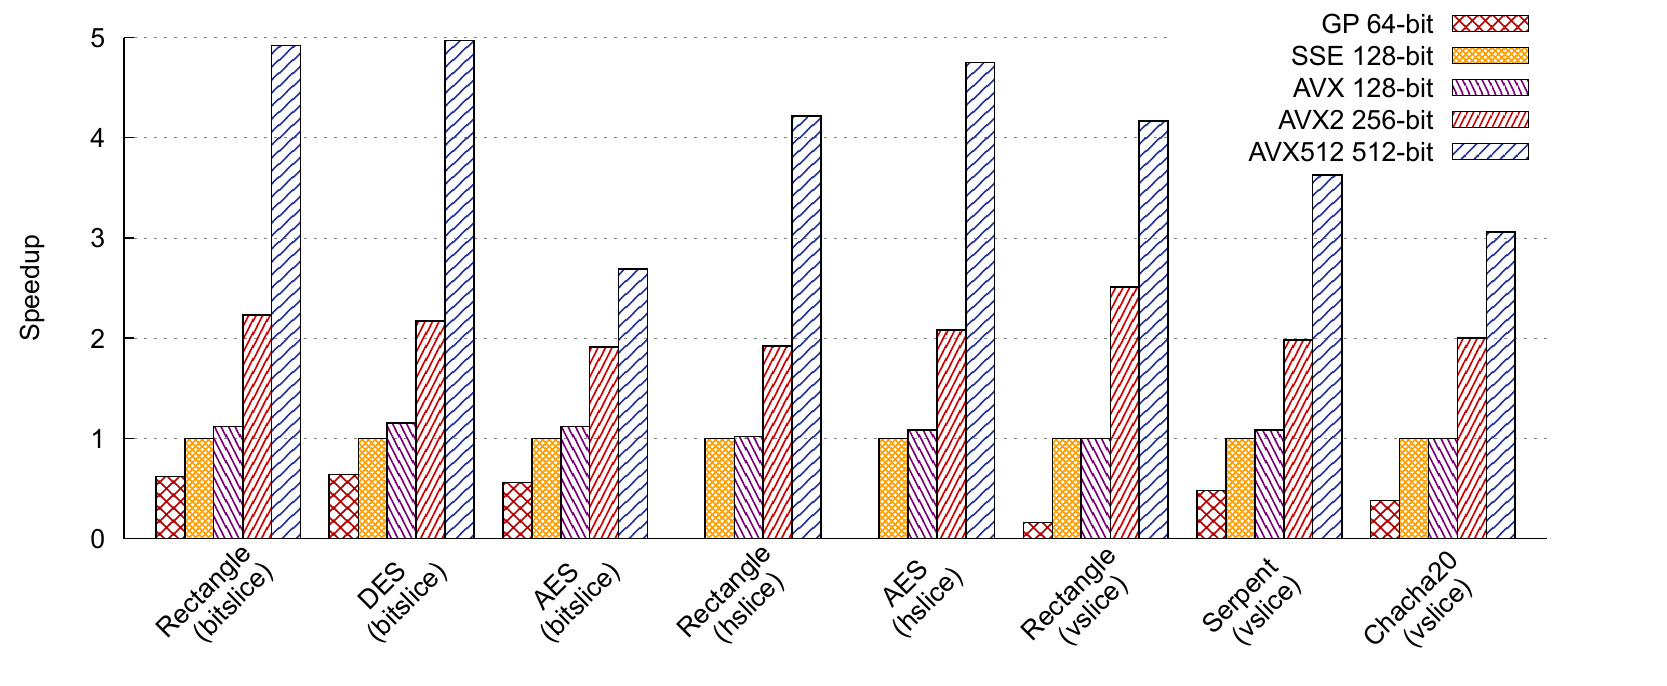
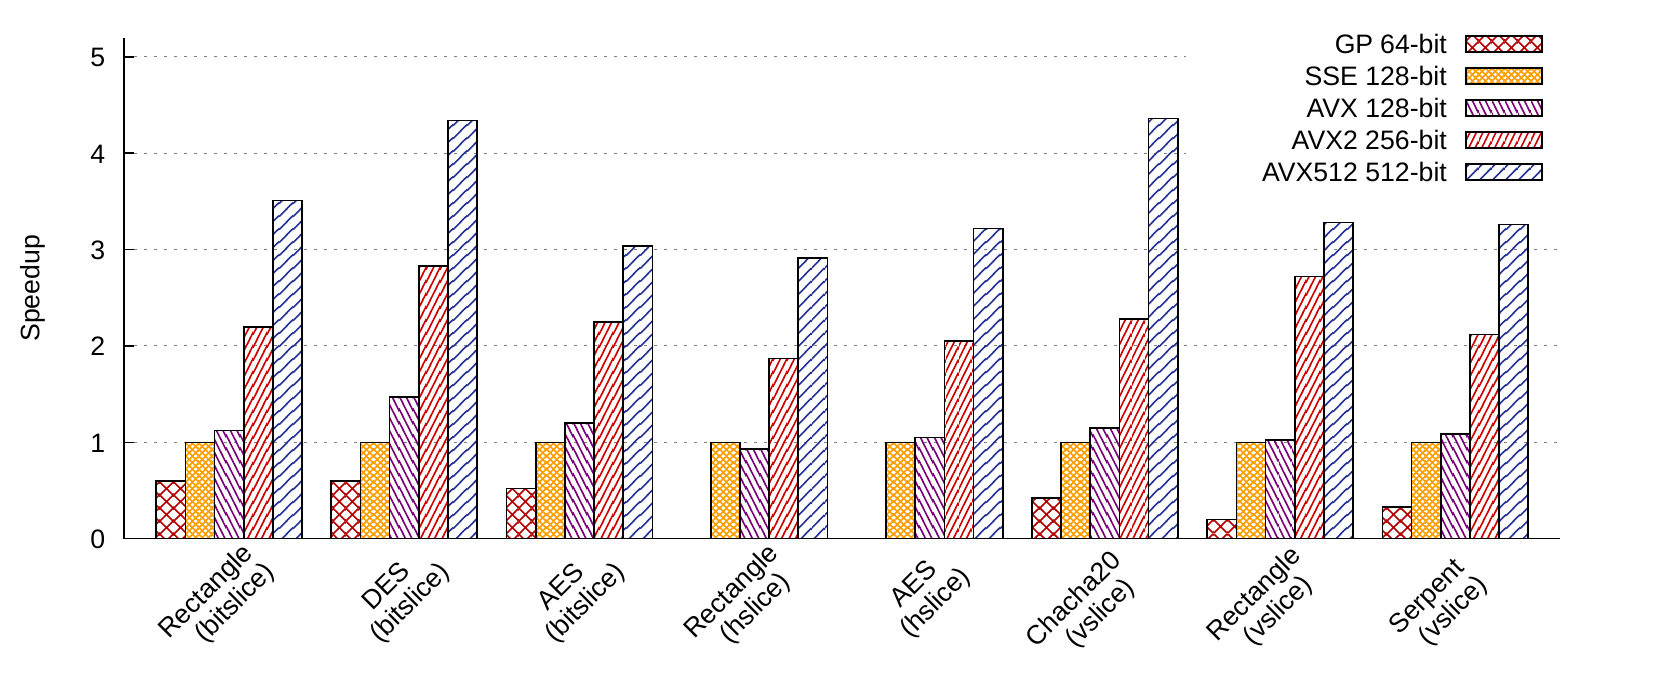
More work on eval

diff --git a/_posts/2020-08-09-eval.md b/_posts/2020-08-09-eval.md
@@ -13,33 +13,85 @@ hidden: true
 
 ## Usuba vs Human
 
+- Ascon. Ref: https://ascon.iaik.tugraz.at/ && https://github.com/ascon/ascon-c
+  => Usuba much better because interleaving
+
+- ACE. Ref from LWC submission: https://csrc.nist.gov/projects/lightweight-cryptography/round-2-candidates
+  => Usuba much better because unrolling & scheduling (or, alternatively, interleaving is slightly worse, but no need to unroll => smaller code).
+
+- Gimli. Ref from LWC.
+  + Uses "generalized mslicing" 
+    -> requires less parallelism
+    -> less performances (requires more shuffles)
+    -> but less register pressures -> can interleave -> better performances on AVX2
+
+
+- Pyjamask/Xoodoo/Gift: ref from LWC is not optimized for x86. Let's see how Usuba does.
+
+  + Pyjamask: Usuba much better. Mostly because inlining and
+    unrolling. Able to interleave matrix multiplication calls. Less
+    slow down because of data dependencies. 
+    
+  + Xoodoo: Usuba a bit better. Some small changes to the ref code
+    make it about even (slightly better?) with Usuba. Still, Usuba
+    automatically scales.
+    
+  + Gift: Usuba much better. Mostly because inlining expansive linear
+    layer. (leads to a lot less operations because some parameters of
+    that function were constants)
+  
+
+- Spook/Clyde. Ref from LWC.
+  => Usuba much better because 3-interleaving.
+  TODO: Shadow (ref implem is on SSE and AVX, cf https://git-crypto.elen.ucl.ac.be/spook/spook-he/-/tree/master/src)
+
+
+- TEA?
+
+
+- Chacha20/Serpent/AES/DES/Rectangle (PLDI)
+
+
 ## Scalability
+
+The figure below shows the scaling of our implementations on the main
+SIMD available on Intel: SSE (SSE4.2), AVX, AVX2 and AVX512. Those
+benchmarks were compiled using Clang 9.0.1, and executed on a Intel(R)
+Xeon(R) W-2155 CPU @ 3.30GHz running a Linux 5.4.0.
 
 <p align="center" style="margin-top:30px;margin-bottom:30px;">
 <img style="height:auto;width:auto;max-width:100%" src="{{ site.baseurl }}/assets/images/blog/eval-scaling-speedup.png">
 </p>
 
-Figure 3 shows the scaling of our implementations on the main SIMD
-available on Intel: SSE (SSE4.2), AVX, AVX2 and AVX512. Those
-benchmarks were compiled using ICC 18.0.1, and executed on a Intel(R)
-Xeon(R) Gold 6126 CPU @ 2.60GHz running a Scientific Linux 7.5
-(Nitrogen).
+We do not report results for all of the ciphers we implemented in
+Usuba, but only for a few representative ciphers:
+
+ - In bitslice mode, DES (a hardware-oriented cipher), AES (a more
+   "mathematical" cipher), and Rectangle (which is very efficient in
+   both software and hardware)
+   
+ - In hslice mode, Rectangle and AES, the main two ciphers that
+   benefit from hslicing.
+   
+ - In vslice mode, Chacha20 (which relies on multiplications and
+   additions), and Serpent and Rectangle (both of which are naturally
+   vsliced).
 
 We omitted the cost of transposition in this benchmark to focus solely
 on the cryptographic primitives. The cost of transposition depends on
 the data layout and the target instruction set. For example, the
-transposition of u V 16 × 4 costs 0.09 cycles/byte on AVX512 while the
-transposition of u H 16 × 4 costs up to 10.76 cycles/byte on SSE.
-
+transposition of u<sub>V</sub>16×4 costs 0.09 cycles/byte on AVX512
+while the transposition of u<sub>H</sub>16×4 costs up to 2.36
+cycles/byte on SSE.
 
 One could expect the speedup to be linear in the size of registers,
-but the reality is more complex. Spilling wider reg- isters puts more
+but the reality is more complex. Spilling wider registers puts more
 pressure on the L1 data-cache, leading to more frequent misses. To
 stay within thermal design power (TDP) envelope of the CPU, wider SIMD
 execution units (from AVX to AVX512) are throttled, meaning that the
 processor must perform time-consuming frequency reduction steps. AVX
 and AVX512 registers need tens of thousands warm-up cycles before
-being used, since they are not pow- ered when no instruction uses
+being used, since they are not powered when no instruction uses
 them. SSE instructions take two operands and overwrite one to store
 the result, while AVX offer 3-operand non destructive instructions,
 thus reducing register spilling. Also, successive generations of SIMD
@@ -47,14 +99,16 @@ instructions expand the number of registers (from 8 with SSE, 16 with
 AVX and 32 with AVX512), further reducing the need for spilling. The
 latency and throughput of most instructions differ from one
 micro-architecture to another and from one SIMD to another. For
-instance, up to 4 gen- eral purpose bitwise operations can be computed
+instance, up to 4 general purpose bitwise operations can be computed
 per cycle, and only 3 SSE/AVX. Finally, newer SIMD extensions tend to
-have more powerful instructions than older ones. For in- stance,
-AVX512 offers, among many useful features, a bitwise ternary logic
-instruction (vpternlogq) that computes any three-operand binary
+have more powerful instructions than older ones. For instance, AVX512
+offers, among many useful features, a bitwise ternary logic
+instruction (`vpternlogq`) that computes any three-operand binary
 function at once. We distinguish AVX from AVX2 because the latter
-introduced shifts, n-bit integer arithmetic, and byte-shuffle on 256
+introduced shifts, _n_-bit integer arithmetic, and byte-shuffle on 256
 bits, thus making it more suitable for slicing on 256 bits.
+
+ONLY 2 AVX512 ALU !!!!!
 
 Bitslice Rectangle and DES both scale nicely. As any bitsliced
 algorithm, they both suffer from a lot of spilling, and therefore
@@ -65,7 +119,7 @@ wider registers. When doubling the word size by using 256-bit AVX2
 registers instead of 128-bit, the speedup is unsurprisingly
 doubled. AVX512 benefits are twofold. First, they provide twice more
 registers than AVX2, thus reducing the spilling. Second, they offer a
-bitwise ternary logic instruction, which is exploited by ICC to fuse
+bitwise ternary logic instruction, which is exploited by Clang to fuse
 nested logical gates. Overall, this allows Rectangle and DES to run
 almost 5 times faster on AVX512 than on SSE.  Bitslice AES, on the
 other hand, does not benefit from having wider registers, because it
@@ -76,6 +130,19 @@ misses in the L1 data cache when using general purpose 64-bit
 registers, that number grows to 6% on SSE, 14% on AVX2, and up to 50%
 on AVX512.
 
+Because the frequency of the CPU is throttled when using AVX512, the
+simple increase in register size when using AVX512 is not enough to
+yield a x2 speedup when compared to AVX2. For instance, Serpent on
+AVX512 contains 2.44 times less instructions than on AVX2, and yet
+executes in only 1.7 times less cycles. The ciphers that reach 
+
+LAZY LIFTING RECTANGLE
+
+Chacha20 AVX512: 130 instrs; AVX2: 240 instrs (1 in 3 instruction is a
+rotation -> represent 3/5 of all instrs in AVX2 -> only 1/3 in in
+AVX512 (not exactly because half the rotations are done with
+shuffles)). + more registers = no need to spill!
+
 Overall, m-sliced programs are similar excepted when it comes to
 shuffle and m-bit arithmetic. As a result, they exhibit similar
 scaling behavior. They tend to use only a handful of variables, and do
@@ -83,44 +150,157 @@ not suffer from spilling as much as bitsliced implementations, which
 explains why using AVX instructions yields only a marginal –if any–
 improvement in throughput. As in bitslicing, AVX2 registers allows the
 throughput to be doubled. AVX512 is particularly beneficial because of
-the aforementioned vpternlogq instruction. This translates into a good
+the new instructions it offers: the aforementioned `vpternlogq`   instruction. This translates into a good
 speedup on Rectangle and AES while the effect is reduced on Chacha20,
 which involves few Boolean operations.
+
+Since CPUs with AVX512 offer more registers than CPUs with only AVX2
+or SSE, Usubac can interleave more aggressively without introducing
+too much spilling. For instance, our hsclied AES is 1.15 times faster
+when interleaved on our Xeon W-2155, reaching 1.13 cycles/bytes
+(excluding transposition), whereas on a i5-6500 (which does not have
+AVX512 extensions), interleaving AES results in at x1.10 slowdown.
 
 
 ## Monomorphization
 
+The relative performances of hslicing, vslicing and bitslicing vary
+from a cipher to another, and from an architecture to another. For
+instance, on Pyjamask, bitslicing is about 2.3 times faster than
+vslicing on SSE registers, 1.5 times faster on AVX, and as efficient
+on AVX512. On Serpent however, bitslicing is 1.7 times slower than
+vslicing on SSE, 2.8 times slower on AVX, and up to 4 times slower on
+AVX512. 
+
 As explained in the [post describing the Usuba language]({{
 site.baseurl }}{% post_url 2020-02-24-usuba %}), we can specialize our
-polymorphic implementation of Rectangle to all types of slicing and
-SIMD instruction set: for instance, on AVX2, the vsliced C
-implementation of Rectangle generated from the Usuba code will have
-the type
+polymorphic implementations to different slicing types and SIMD
+instruction sets. Usuba thus allows to easily compare the performances
+of the slicing modes of any cipher. In practice, few ciphers can be
+not only bitsliced but also vsliced and hsliced: hslicing (except on
+AVX512) requires the cipher to rely on 16-bit (or smaller) values,
+arithmetic operations constraint ciphers to be only vsliced,
+bit-permutations (declared with `perm` in Usuba) prevent efficient
+vslicing, and often hslicing as well, _etc_.
+
+One of the few ciphers compatible with all slicing types and all
+instruction sets (except hslicing on general purpose registers) is
+Rectangle. Its type in Usuba is:
+
+```lustre
+node Rectangle(plain:u16x4, key:u16x4) returns (cipher:u16x4)
+```
+
+Compiling Rectangle for AVX2 in vsliced mode would produce a C
+implementation whose type would be:
 
 ```c
 void Rectangle (__m256i plain[4], __m256i key[26][4], __m256i cipher[4])
 ```
 
-while the bitsliced SSE implementation has type
+and which would compute 256/16=16 instances of Rectangle at once.
+Targetting instead SSE registers in bitsliced mode would produce a C
+implementation whose type would be:
 
 
 ```c
 void Rectangle (__m128i plain[64], __m128i key[26][64], __m128i cipher[64])
 ```
 
-
-- Few ciphers h-sliceable: only `u16` or less
-
-Rectangle
-
-AES
+and which would compute 128 (the size of the registers) instances of
+Rectangle at once.
 
 
-- bitslice + vslice (some examples)
+We leave for future work to modify Usuba's auto-tuner to be
+able to compare all slicing types for the desired architecture. 
 
-Ascon
 
-Serpent
+In the following, we analyze the performances of vsliced, hsliced and
+bitsliced Rectangle on general purpose registers, SSE, AVX, AVX2 and
+AVX512; all of which were automatically generated from a single Usuba
+source of 31 lines. We ran this comparison on a Intel(R) Xeon(R)
+W-2155 CPU @ 3.30GHz, running Linux 5.4, and compiled the C codes with
+Clang 9.0.1.
+
+
+<p align="center" style="margin-top:30px;margin-bottom:30px;">
+<img style="height:auto;width:auto;max-width:100%" src="{{ site.baseurl }}/assets/images/blog/slicing-compare.png">
+</p>
+
+REDO GRAPH WITH AVX512 FIXED (alignment issue)!!!
+
+
+Overall, mslicing is more efficient that bislicing on Rectangle. The
+main reason is that it uses much less registers and thus do not
+require any spilling. Hslicing and vslicing do use more instructions
+per bit encrypted, since they perform the rotations of Rectangle's
+linear layer at run-time (whereas they are computed at compile time by
+Usubac in bitslicing), but this small extra cost does not offset the
+improvement offered by their low register pressure.
+
+When excluding the transposition, hslicing is faster than
+vslicing. The main reason is that vsliced Rectangle requires 3
+operations per rotation (since SSE and AVX do not offer rotate
+instructions), whereas hsliced Rectangle only need one `shuffle` per
+rotation. Without interleaving, both vsliced and hscliced Rectangle
+would have similar performances however, because Skylake can only
+perform one `shuffle` per round, and up to 3 shifts per round: the
+`shuffle`s would need to be computed sequentially, thus not fully
+exploiting the superscalar pipeline. However, thanks to interleaving,
+while the `shuffle`s of one encryption are being computed
+sequentially, the S-box of another (interleaved) encryption can be
+computed at the same time (since it uses other ports of the CPUs).
+
+On 64-bit general purpose registers, bitslicing is actually faster
+than vslicing because the latter processes only one block at a time,
+as a consequence of the lack of x86-64 instruction to shift 4 16-bit
+words in a single 64-bit register. Still, the `_pdep_u64` intrinsic
+could be used to interleave several inputs of vsliced Rectangle in the
+same 64-bit register. This instructions take a register `a` and an
+integer `mask` as parameters, and dispatches the bits of `a` to a new
+registers following the pattern in `mask`. For instance, using
+`_pdep_u64` with the mask `0x8888888888888888` would dispatch a 16-bit
+input of Rectangle into a 64-bit register as follows:
+
+<p align="center" style="margin-top:30px;margin-bottom:30px;">
+<img style="height:auto;width:auto;max-width:100%" src="{{ site.baseurl }}/assets/images/blog/pdep_u64-1.png">
+</p>
+
+A second input of Rectangle could be dispatched into the next bits
+using the mask `0x4444444444444444`:
+
+<p align="center" style="margin-top:30px;margin-bottom:30px;">
+<img style="height:auto;width:auto;max-width:100%" src="{{ site.baseurl }}/assets/images/blog/pdep_u64-2.png">
+</p>
+
+Repeating the process with two more inputs and the masks
+`0x2222222222222222` and `0x1111111111111111`, and combining the
+results (using a simple `or`) would produce a 64-bit register
+containing 4 interleaved 16-bit inputs of Rectangle. Since Rectangle's
+whole input is 64-bit, this process needs to be repeated 4
+times. Then, regular shift and rotate instructions can be used to
+independently rotate each input. For instance, a left-rotation by 2
+can now be done by a simple left-rotation by 8:
+
+<p align="center" style="margin-top:30px;margin-bottom:30px;">
+<img style="height:auto;width:auto;max-width:100%" src="{{ site.baseurl }}/assets/images/blog/rectangle-std-inter.png">
+</p>
+
+In essence, this technique is similar to hslicing in its data layout,
+but similar to vslicing in the instructions it offers. Bits of the
+input are split along the horizontal direction of the registers, but
+the lack of vector instructions on general purpose registers prevents
+the use of `Shuffle`s, and requires using standard vsliced
+instructions, except for arithmetic instructions. We leave for future
+work the investigation of how this mode of slicing could be
+incorporated within Usuba.
+
+
+
+
+## Transposition ?
+
+(from WPMVP)
 
 
 ---
